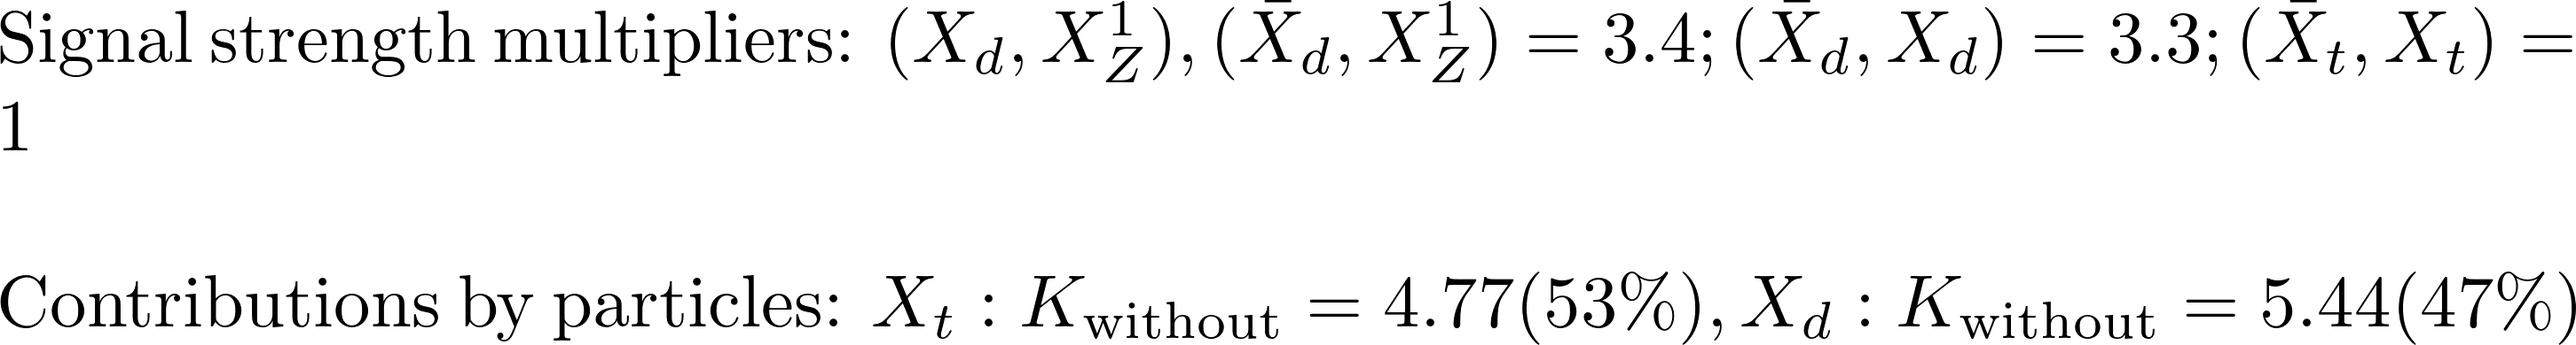
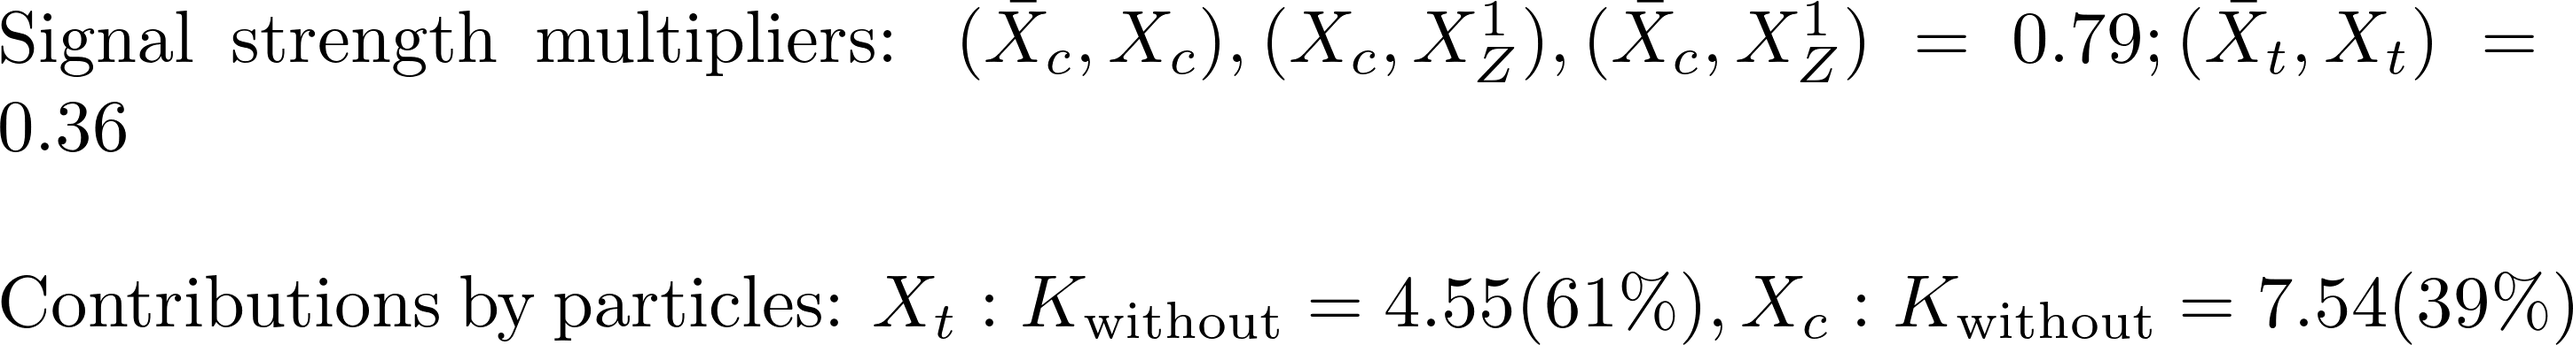
automated update by plotHiscore.py

diff --git a/protomodels/latest/index.html b/protomodels/latest/index.html
@@ -1,31 +1,31 @@
 <html>
 <body>
 <center>
-<table><td><h1>Current best protomodel: K=10.44</h1><td><img height=60px src=https://smodels.github.io/pics/banner.png></table>
+<table><td><h1>Current best protomodel: K=12.63</h1><td><img height=60px src=https://smodels.github.io/pics/banner.png></table>
 </center>
-<b><a href=./hiscore.slha>ProtoModel</a> <a href=./pmodel.py>(dict)</a> produced with <a href=https://smodels.github.io/docs/Validation124signal16>database v1.2.4signal16</a>, combination strategy <a href=./matrix_aggressive.png>aggressive</a> in walker 39 step 992.</b> K plots for: <a href=./M1000022.png?9276939>X<sub>Z</sub><sup>1</sup></a>, <a href=./M1000001.png?9276939>X<sub>d</sub></a>, <a href=./M1000006.png?9276939>X<sub>t</sub></a>. HPD plots for: <a href=./llhd1000001.png?9276939>X<sub>d</sub></a>, <a href=./llhd1000006.png?9276939>X<sub>t</sub></a>. SSM plots for: <a href=./ssm_-1000006_1000006.png?9276939>(x&#772;<sub>t</sub>,X<sub>t</sub>)</a><br>
+<b><a href=./hiscore.slha>ProtoModel</a> <a href=./pmodel.py>(dict)</a> produced with <a href=https://smodels.github.io/docs/Validation124signal19>database v1.2.4signal19</a>, combination strategy <a href=./matrix_aggressive.png>aggressive</a> in walker 36 step 708.</b> K plots for: <a href=./M1000022.png?9277321>X<sub>Z</sub><sup>1</sup></a>, <a href=./M1000006.png?9277321>X<sub>t</sub></a>, <a href=./M1000004.png?9277321>X<sub>c</sub></a>. HPD plots for: <a href=./llhd1000006.png?9277321>X<sub>t</sub></a>, <a href=./llhd1000004.png?9277321>X<sub>c</sub></a>. SSM plots for: <a href=./ssm_-1000006_1000006.png?9277321>(x&#772;<sub>t</sub>,X<sub>t</sub>)</a><br>
 <table width=80%>
 <tr><td>
-<br><b>29 predictions available. Highest r values are:</b><br><ul>
-<li><a href=http://cms-results.web.cern.ch/cms-results/public-results/publications/SUS-19-006/index.html>CMS-SUS-19-006</a>:T2 r=1.30, r<sub>exp</sub>=1.35<br>
-<li><a href=http://cms-results.web.cern.ch/cms-results/public-results/publications/SUS-19-006/index.html>CMS-SUS-19-006</a>:T2tt r=1.05, r<sub>exp</sub>=0.77<br>
-<li><a href=https://atlas.web.cern.ch/Atlas/GROUPS/PHYSICS/PAPERS/SUSY-2016-07/>ATLAS-SUSY-2016-07</a>:T2 r=0.47, r<sub>exp</sub>=0.67<br>
-<li><a href=http://cms-results.web.cern.ch/cms-results/public-results/publications/SUS-16-033/index.html>CMS-SUS-16-033</a>:T2 r=0.47, r<sub>exp</sub>=1.00<br>
-<li><a href=http://cms-results.web.cern.ch/cms-results/public-results/publications/SUS-16-036/index.html>CMS-SUS-16-036</a>:T2 r=0.44, r<sub>exp</sub>=0.91<br>
+<br><b>38 predictions available. Highest r values are:</b><br><ul>
+<li><a href=http://cms-results.web.cern.ch/cms-results/public-results/publications/SUS-19-006/index.html>CMS-SUS-19-006</a>:T2tt r=1.30, r<sub>exp</sub>=0.89<br>
+<li><a href=http://cms-results.web.cern.ch/cms-results/public-results/publications/SUS-16-036/index.html>CMS-SUS-16-036</a>:T2 r=1.26, r<sub>exp</sub>=0.89<br>
+<li><a href=https://atlas.web.cern.ch/Atlas/GROUPS/PHYSICS/PAPERS/SUSY-2016-26/>ATLAS-SUSY-2016-26</a>:T2cc r=1.01, r<sub>exp</sub>=N/A<br>
+<li><a href=http://cms-results.web.cern.ch/cms-results/public-results/publications/SUS-19-006/index.html>CMS-SUS-19-006</a>:T2 r=0.86, r<sub>exp</sub>=1.35<br>
+<li><a href=http://cms-results.web.cern.ch/cms-results/public-results/publications/SUS-16-049/index.html>CMS-SUS-16-049</a>:T2tt r=0.65, r<sub>exp</sub>=1.08<br>
 </ul>
 <td><br><b>K values without analyses: (contribution)</b><br>
 <ul>
-<li> <a href=https://twiki.cern.ch/twiki/bin/view/CMSPublic/PhysicsResultsSUS13012>CMS-SUS-13-012</a>: -1.83 (16%)
-<li> <a href=http://cms-results.web.cern.ch/cms-results/public-results/publications/SUS-16-033/index.html>CMS-SUS-16-033</a>: -1.83 (16%)
-<li> <a href=http://cms-results.web.cern.ch/cms-results/public-results/publications/SUS-16-051/index.html>CMS-SUS-16-051</a>: -1.83 (16%)
-<li> <a href=https://atlas.web.cern.ch/Atlas/GROUPS/PHYSICS/PAPERS/SUSY-2013-04/>ATLAS-SUSY-2013-04</a>: -1.83 (16%)
-<li> <a href=https://atlas.web.cern.ch/Atlas/GROUPS/PHYSICS/PAPERS/SUSY-2016-07/>ATLAS-SUSY-2016-07</a>: -2.21 (17%)
-<li> <a href=https://atlas.web.cern.ch/Atlas/GROUPS/PHYSICS/PAPERS/SUSY-2016-16/>ATLAS-SUSY-2016-16</a>: -2.43 (17%)
-<td><img width=600px src=./texdoc.png?1602276939>
-<br><font size=-1>Last updated: Fri Oct  9 22:55:39 2020</font>
+<li> <a href=https://atlas.web.cern.ch/Atlas/GROUPS/PHYSICS/PAPERS/SUSY-2013-04/>ATLAS-SUSY-2013-04</a>: 0.31 (16%)
+<li> <a href=http://cms-results.web.cern.ch/cms-results/public-results/publications/SUS-16-033/index.html>CMS-SUS-16-033</a>: 0.31 (16%)
+<li> <a href=https://twiki.cern.ch/twiki/bin/view/CMSPublic/PhysicsResultsSUS13012>CMS-SUS-13-012</a>: 0.31 (16%)
+<li> <a href=http://cms-results.web.cern.ch/cms-results/public-results/publications/SUS-16-051/index.html>CMS-SUS-16-051</a>: 0.31 (16%)
+<li> <a href=https://atlas.web.cern.ch/Atlas/GROUPS/PHYSICS/PAPERS/SUSY-2016-07/>ATLAS-SUSY-2016-07</a>: 0.25 (16%)
+<li> <a href=https://atlas.web.cern.ch/Atlas/GROUPS/PHYSICS/PAPERS/SUSY-2016-16/>ATLAS-SUSY-2016-16</a>: -3.48 (21%)
+<td><img width=600px src=./texdoc.png?1602277321>
+<br><font size=-1>Last updated: Fri Oct  9 23:02:01 2020</font>
 </table><table style="width:80%">
-<td width=45%><img height=580px src=./ruler.png?1602276939><td width=55%><img height=380px src=./decays.png?1602276939>
-<font size=-3><iframe type="text/html" height="220px" width="100%s" frameborder="0" src="./rawnumbers.html?1602276939"></iframe></font>
+<td width=45%><img height=580px src=./ruler.png?1602277321><td width=55%><img height=380px src=./decays.png?1602277321>
+<font size=-3><iframe type="text/html" height="220px" width="100%s" frameborder="0" src="./rawnumbers.html?1602277321"></iframe></font>
 </table>
 </body>
 </html>

diff --git a/protomodels/latest/rawnumbers.html b/protomodels/latest/rawnumbers.html
@@ -1,10 +1,10 @@
 <table>
 <tr><th>Analysis Name</th><th>Type</th><th>Dataset</th><th>Topos</th><th>Observed</th><th>Expected</th><th>Approx &sigma;</th><th>Particles</th><th>Signal</th>
 </tr>
-<tr><td><a href=https://atlas.web.cern.ch/Atlas/GROUPS/PHYSICS/PAPERS/SUSY-2013-04/>ATLAS-SUSY-2013-04</a></td><td>em</td> <td>GtGrid_SR_8ij80 ...</td><td>T2tt</td><td>1</td><td>0.9 +/- 0.6</td><td style="text-align:right">0.1 &sigma;</td><td style="text-align:right">X<sub>t</sub></td><td style="text-align:right">0</td></tr>
-<tr><td><a href=https://atlas.web.cern.ch/Atlas/GROUPS/PHYSICS/PAPERS/SUSY-2016-07/>ATLAS-SUSY-2016-07</a></td><td>em</td> <td>6j_Meff_2200</td><td>T2</td><td>6</td><td>3.1 +/- 1.3</td><td style="text-align:right">1.3 &sigma;</td><td style="text-align:right">X<sub>d</sub></td><td style="text-align:right">4</td></tr>
-<tr><td><a href=https://atlas.web.cern.ch/Atlas/GROUPS/PHYSICS/PAPERS/SUSY-2016-16/>ATLAS-SUSY-2016-16</a></td><td>em</td> <td>tN_med</td><td>T2tt</td><td>48</td><td>36.3 +/- 6.6</td><td style="text-align:right">1.3 &sigma;</td><td style="text-align:right">X<sub>t</sub></td><td style="text-align:right">5</td></tr>
-<tr><td><a href=https://twiki.cern.ch/twiki/bin/view/CMSPublic/PhysicsResultsSUS13012>CMS-SUS-13-012</a></td><td>ul</td> <td>-</td><td>T2</td><td> 32.7 fb </td><td> 18.0 fb</td><td style="text-align:right">1.6 &sigma;</td><td style="text-align:right">X<sub>d</sub></td><td style="text-align:right">2.22 fb</td></tr>
-<tr><td><a href=http://cms-results.web.cern.ch/cms-results/public-results/publications/SUS-16-033/index.html>CMS-SUS-16-033</a></td><td>ul</td> <td>-</td><td>T2</td><td> 51.8 fb </td><td> 24.0 fb</td><td style="text-align:right">2.3 &sigma;</td><td style="text-align:right">X<sub>d</sub></td><td style="text-align:right">27.79 fb</td></tr>
-<tr><td><a href=http://cms-results.web.cern.ch/cms-results/public-results/publications/SUS-16-051/index.html>CMS-SUS-16-051</a></td><td>ul</td> <td>-</td><td>T2tt</td><td> 55.4 fb </td><td> 24.8 fb</td><td style="text-align:right">2.4 &sigma;</td><td style="text-align:right">X<sub>t</sub></td><td style="text-align:right">30.62 fb</td></tr>
+<tr><td><a href=https://atlas.web.cern.ch/Atlas/GROUPS/PHYSICS/PAPERS/SUSY-2013-04/>ATLAS-SUSY-2013-04</a></td><td>em</td> <td>GtGrid_SR_8ij80 ...</td><td>T2tt</td><td>0</td><td>0.9 +/- 0.6</td><td style="text-align:right">-0.8 &sigma;</td><td style="text-align:right">X<sub>t</sub></td><td style="text-align:right">0</td></tr>
+<tr><td><a href=https://atlas.web.cern.ch/Atlas/GROUPS/PHYSICS/PAPERS/SUSY-2016-07/>ATLAS-SUSY-2016-07</a></td><td>em</td> <td>2j_Meff_2100</td><td>T2</td><td>158</td><td>153 +/- 14</td><td style="text-align:right">0.3 &sigma;</td><td style="text-align:right">X<sub>c</sub></td><td style="text-align:right">0</td></tr>
+<tr><td><a href=https://atlas.web.cern.ch/Atlas/GROUPS/PHYSICS/PAPERS/SUSY-2016-16/>ATLAS-SUSY-2016-16</a></td><td>em</td> <td>tN_med</td><td>T2tt</td><td>55</td><td>36.3 +/- 6.6</td><td style="text-align:right">2.1 &sigma;</td><td style="text-align:right">X<sub>t</sub></td><td style="text-align:right">12</td></tr>
+<tr><td><a href=https://twiki.cern.ch/twiki/bin/view/CMSPublic/PhysicsResultsSUS13012>CMS-SUS-13-012</a></td><td>ul</td> <td>-</td><td>T2</td><td> 585.3 fb </td><td> 452.8 fb</td><td style="text-align:right">0.6 &sigma;</td><td style="text-align:right">X<sub>c</sub></td><td style="text-align:right">2.22 fb</td></tr>
+<tr><td><a href=http://cms-results.web.cern.ch/cms-results/public-results/publications/SUS-16-033/index.html>CMS-SUS-16-033</a></td><td>ul</td> <td>-</td><td>T2</td><td> 618.4 fb </td><td> 294.7 fb</td><td style="text-align:right">2.2 &sigma;</td><td style="text-align:right">X<sub>c</sub></td><td style="text-align:right">27.79 fb</td></tr>
+<tr><td><a href=http://cms-results.web.cern.ch/cms-results/public-results/publications/SUS-16-051/index.html>CMS-SUS-16-051</a></td><td>ul</td> <td>-</td><td>T2tt</td><td> 53.7 fb </td><td> 23.1 fb</td><td style="text-align:right">2.6 &sigma;</td><td style="text-align:right">X<sub>t</sub></td><td style="text-align:right">30.62 fb</td></tr>
 </table>

diff --git a/protomodels/latest/pmodel.py b/protomodels/latest/pmodel.py
@@ -1,1 +1,1 @@
-{'masses': {1000022: 511.926, 1000001: 979.148, 1000006: 875.361}, 'ssmultipliers': {(1000022, 1000022): 0.0, (1000001, 1000001): 0.079, (-1000001, 1000001): 3.307, (-1000001, -1000001): 3.393, (1000001, 1000022): 3.393, (-1000001, 1000022): 3.393, (1000006, 1000006): 1.019, (-1000006, 1000006): 1.019, (-1000006, -1000006): 1.019, (1000006, 1000022): 1.019, (-1000006, 1000022): 1.019, (1000001, 1000006): 0.902, (-1000006, 1000001): 0.902, (-1000001, 1000006): 0.0, (-1000006, -1000001): 0.902}, 'decays': {1000022: {}, 1000001: {(1000022, 1): 1.0}, 1000006: {(1000022, 6): 1.0}}, 'timestamp': 'Fri Oct  9 22:55:10 2020', 'Z': 3.77, 'K': 10.437, 'walkerid': 39, 'step': 992, 'codever': '1.0', 'dbver': '1.2.4signal16'}
+{'masses': {1000022: 321.714, 1000006: 743.035, 1000004: 514.556}, 'ssmultipliers': {(1000022, 1000022): 0.0, (1000006, 1000006): 1.306, (-1000006, 1000006): 0.363, (-1000006, -1000006): 0.0, (1000006, 1000022): 0.965, (-1000006, 1000022): 0.383, (1000004, 1000004): 0.786, (-1000004, 1000004): 0.786, (-1000004, -1000004): 0.786, (1000004, 1000022): 0.786, (-1000004, 1000022): 0.786, (1000004, 1000006): 0.786, (-1000004, 1000006): 0.786, (-1000006, 1000004): 0.786, (-1000006, -1000004): 0.786}, 'decays': {1000022: {}, 1000006: {(1000022, 6): 1.0}, 1000004: {(1000022, 4): 1.0}}, 'timestamp': 'Fri Oct  9 23:01:06 2020', 'Z': 4.023, 'K': 12.633, 'walkerid': 36, 'step': 708, 'codever': '1.0', 'dbver': '1.2.4signal19'}
